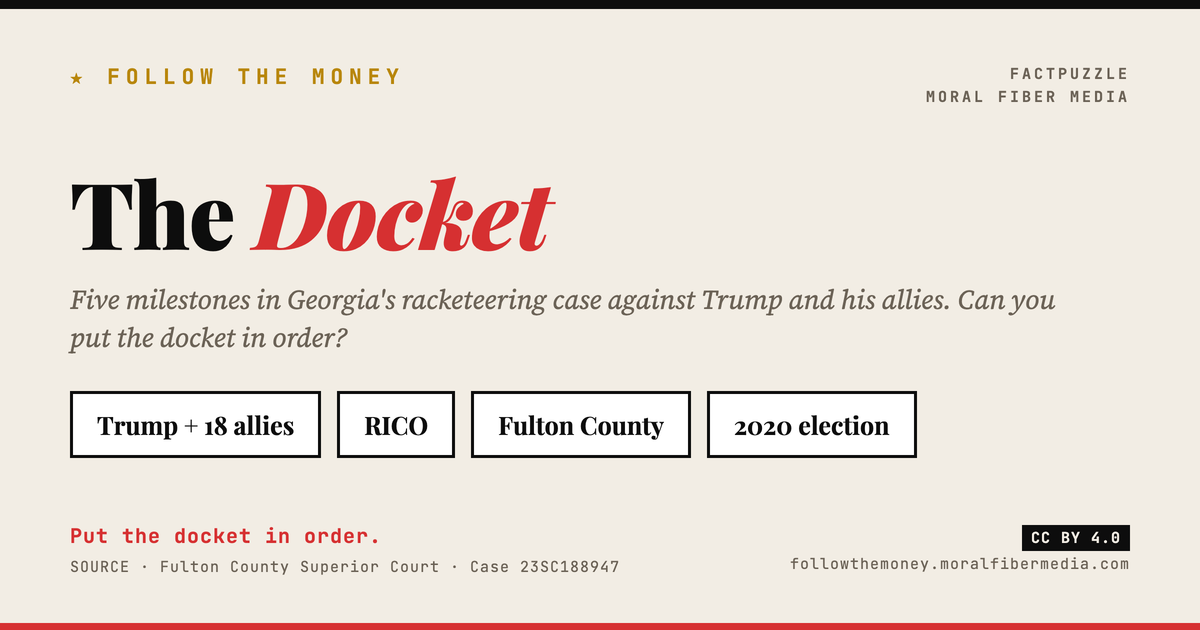
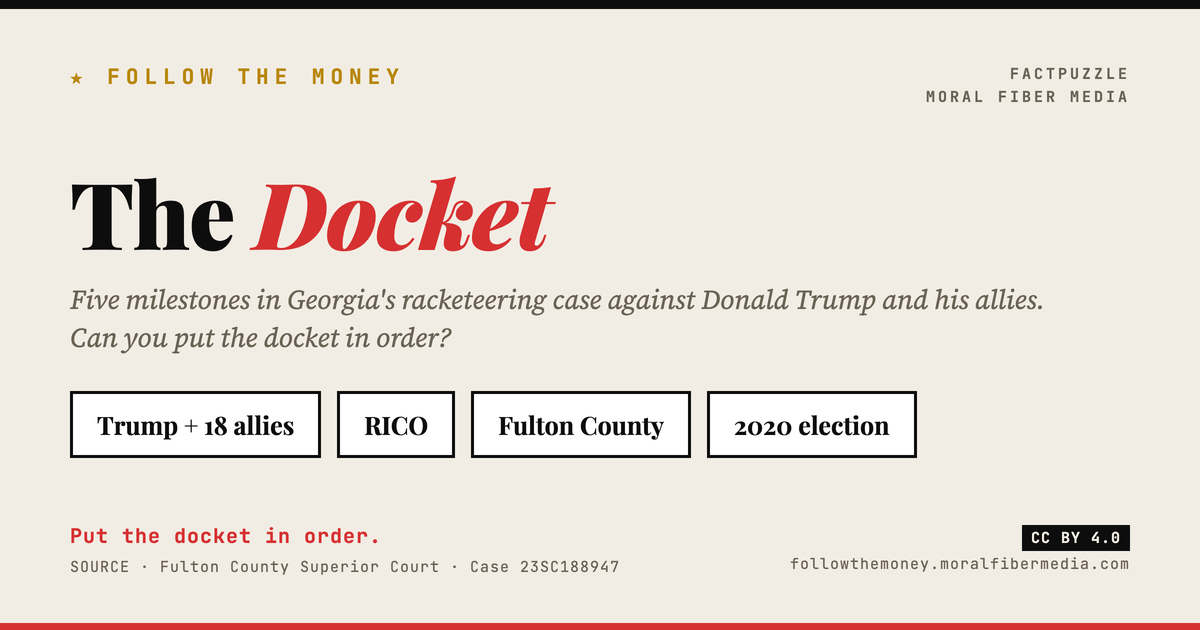
The Docket: one consistent name + matching tagline everywhere
The puzzle page carried two titles — the 'THE DOCKET' wordmark plus a
separate 'Order the Record' h1 — while the index card and preview only
said 'The Docket'. Collapse to a single title: make the wordmark the
lone <h1> and drop 'Order the Record'. Align the tagline so the index
card hook, page subtitle, and preview subtitle read identically
('Five milestones in Georgia's racketeering case against Donald Trump
and his allies. Can you put the docket in order?'). Re-rendered the
preview. Verified: single h1, valid JSON-LD, plays clean, 0 errors.

Changed region(s): [[0.5858, 0.4524, 0.8942, 0.5127], [0.0617, 0.5127, 0.37, 0.573]]

diff --git a/puzzles/the-docket/index.html b/puzzles/the-docket/index.html
@@ -1207,9 +1207,8 @@ body {
   <!-- MASTHEAD -->
   <div class="masthead full-bleed">
     <div class="kicker">Interactive · Public Record · Georgia RICO</div>
-    <div class="wordmark">THE<br><em>DOCKET</em></div>
+    <h1 class="wordmark">THE<br><em>DOCKET</em></h1>
     <div class="episode-tag">Fulton County RICO</div>
-    <h1 class="episode-name">"Order the Record"</h1>
     <div class="sub">Five milestones in Georgia's racketeering case against Donald Trump and his allies. Can you put the docket in order?</div>
     <div class="dateline">Source: State of Georgia v. Trump et al. · Fulton County Case 23SC188947</div>
   </div>

diff --git a/index.html b/index.html
@@ -849,7 +849,7 @@ body {
           <div class="company-chip"><div class="chip-dot"></div> Trump + 18 allies</div>
           <div class="company-chip"><div class="chip-dot"></div> 2020 election</div>
         </div>
-        <div class="card-hook">Indictment, mugshot, plea deals, a fight over the prosecutor. Put five milestones of Georgia's RICO case in the order they happened.</div>
+        <div class="card-hook">Five milestones in Georgia's racketeering case against Donald Trump and his allies. Can you put the docket in order?</div>
         <a class="play-btn" href="/puzzles/the-docket">▶ Play Now</a>
       </div>
     </div>